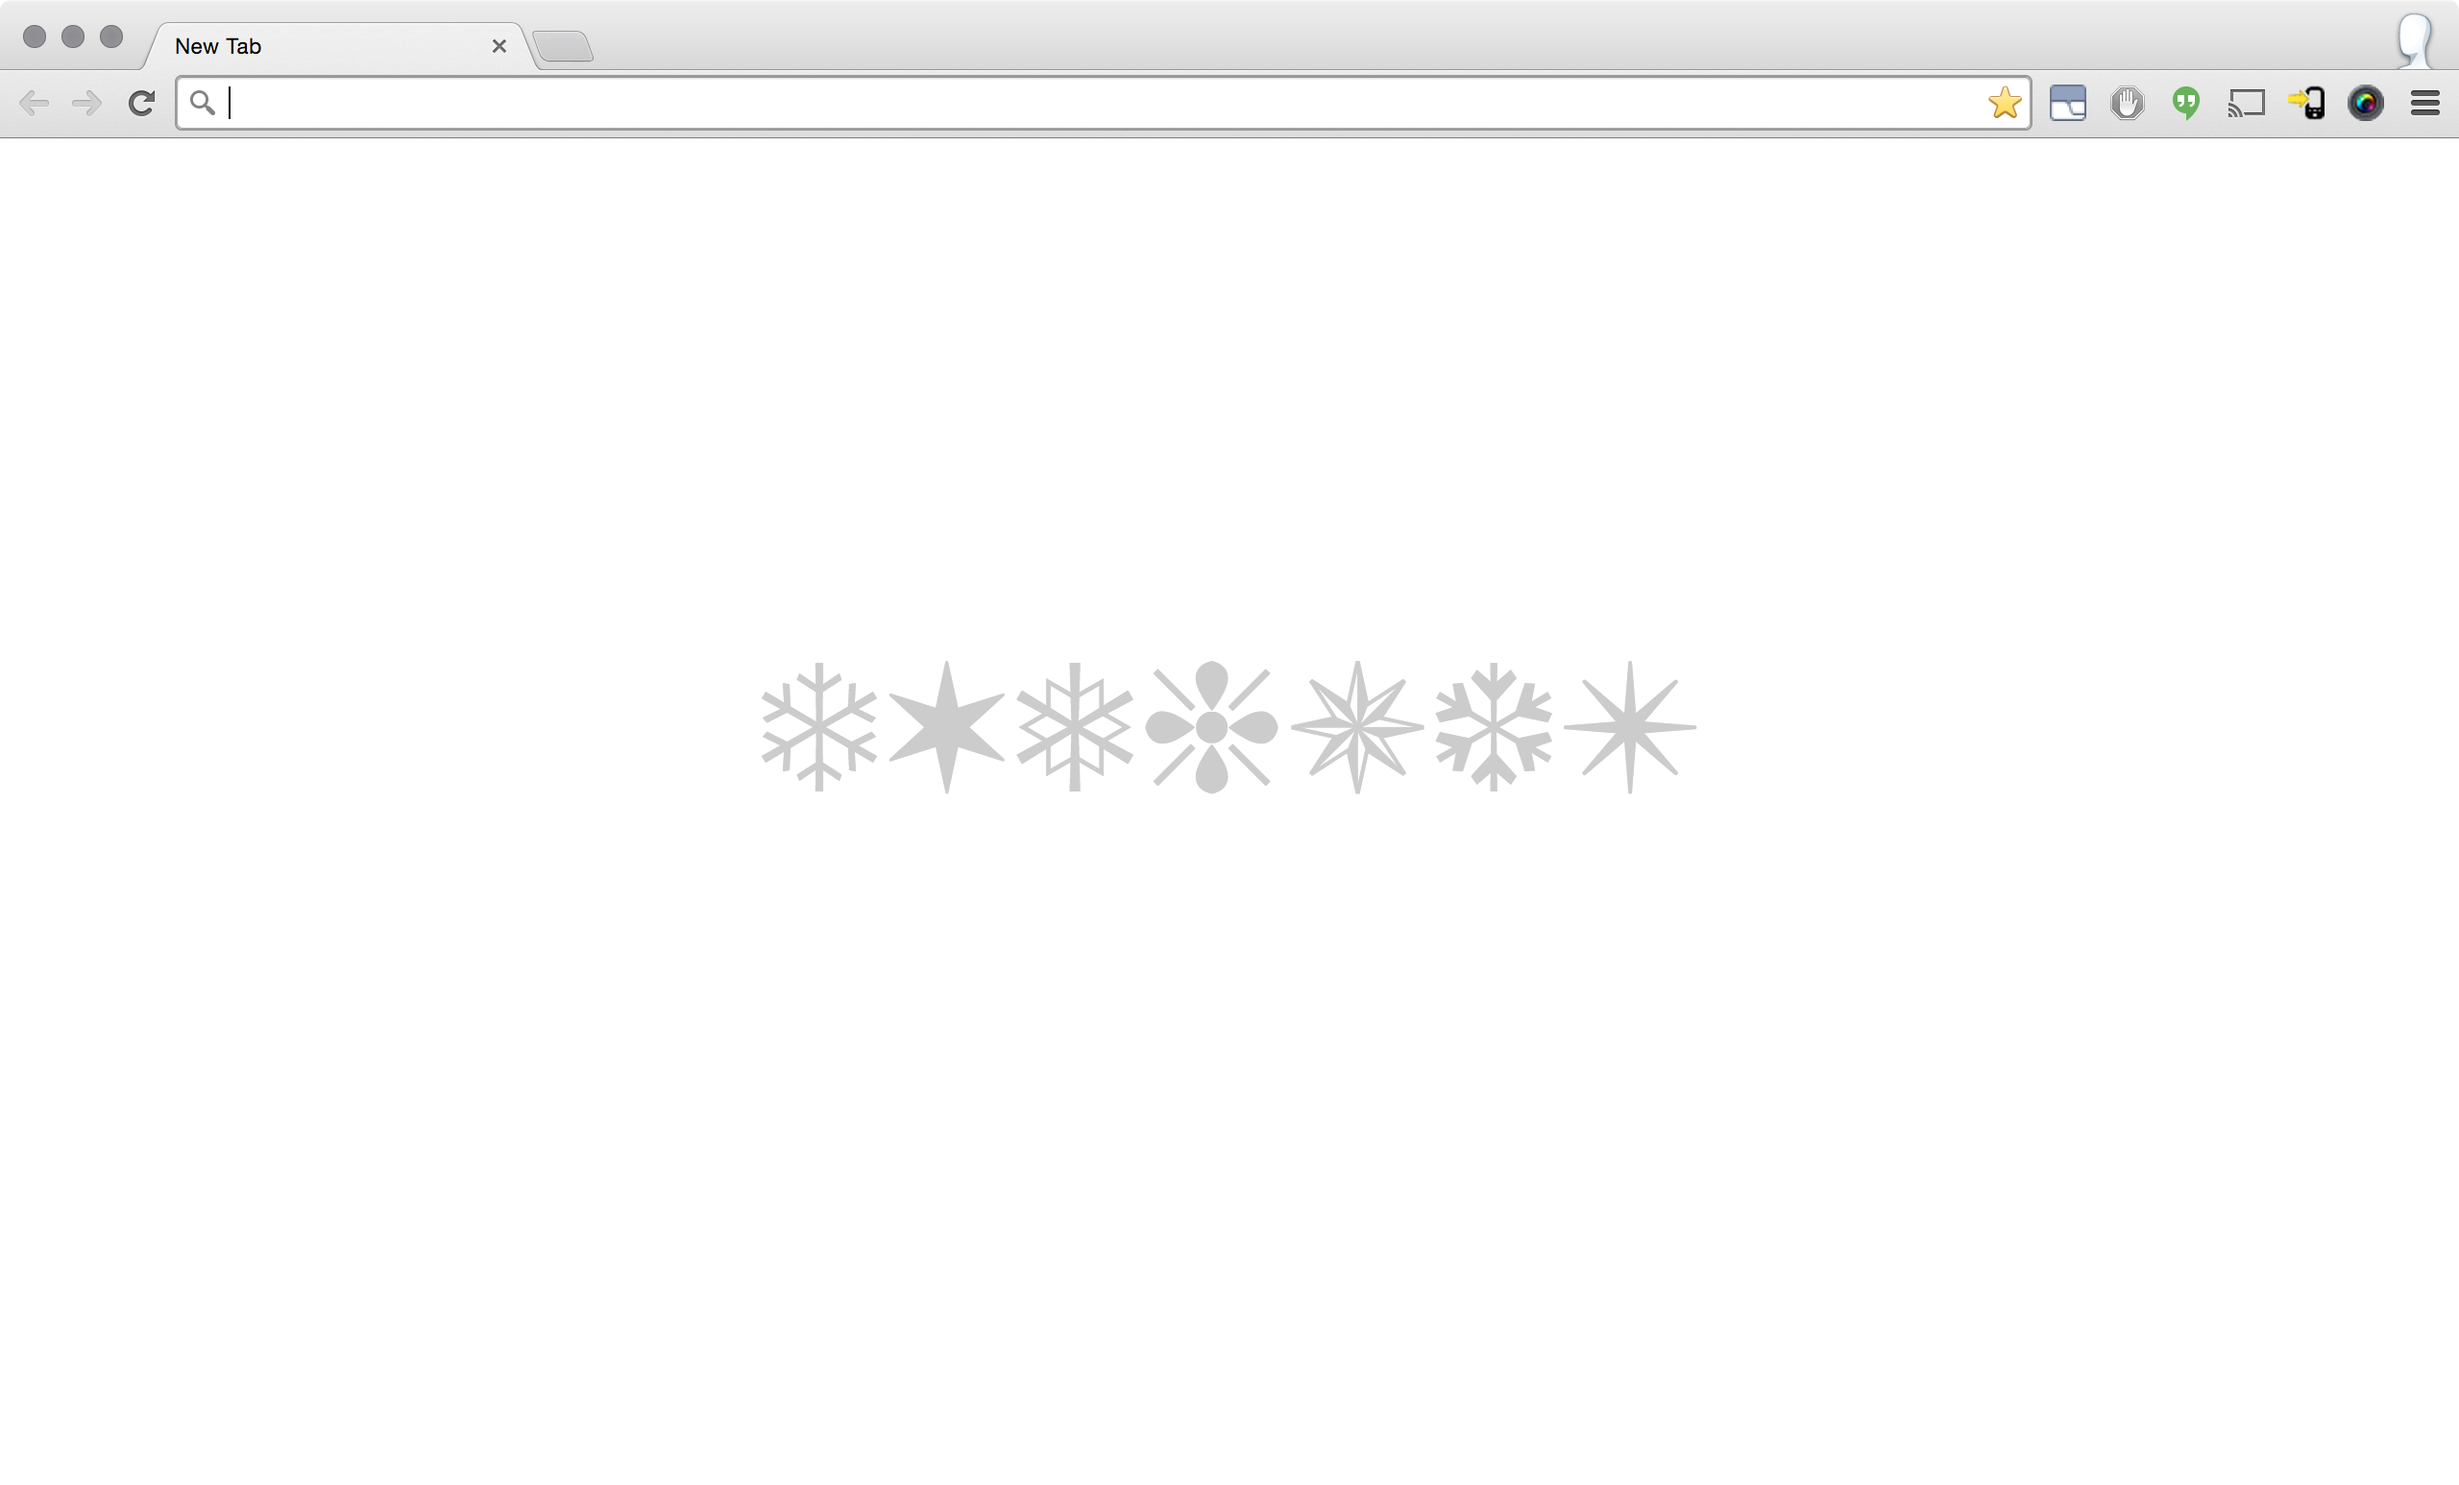
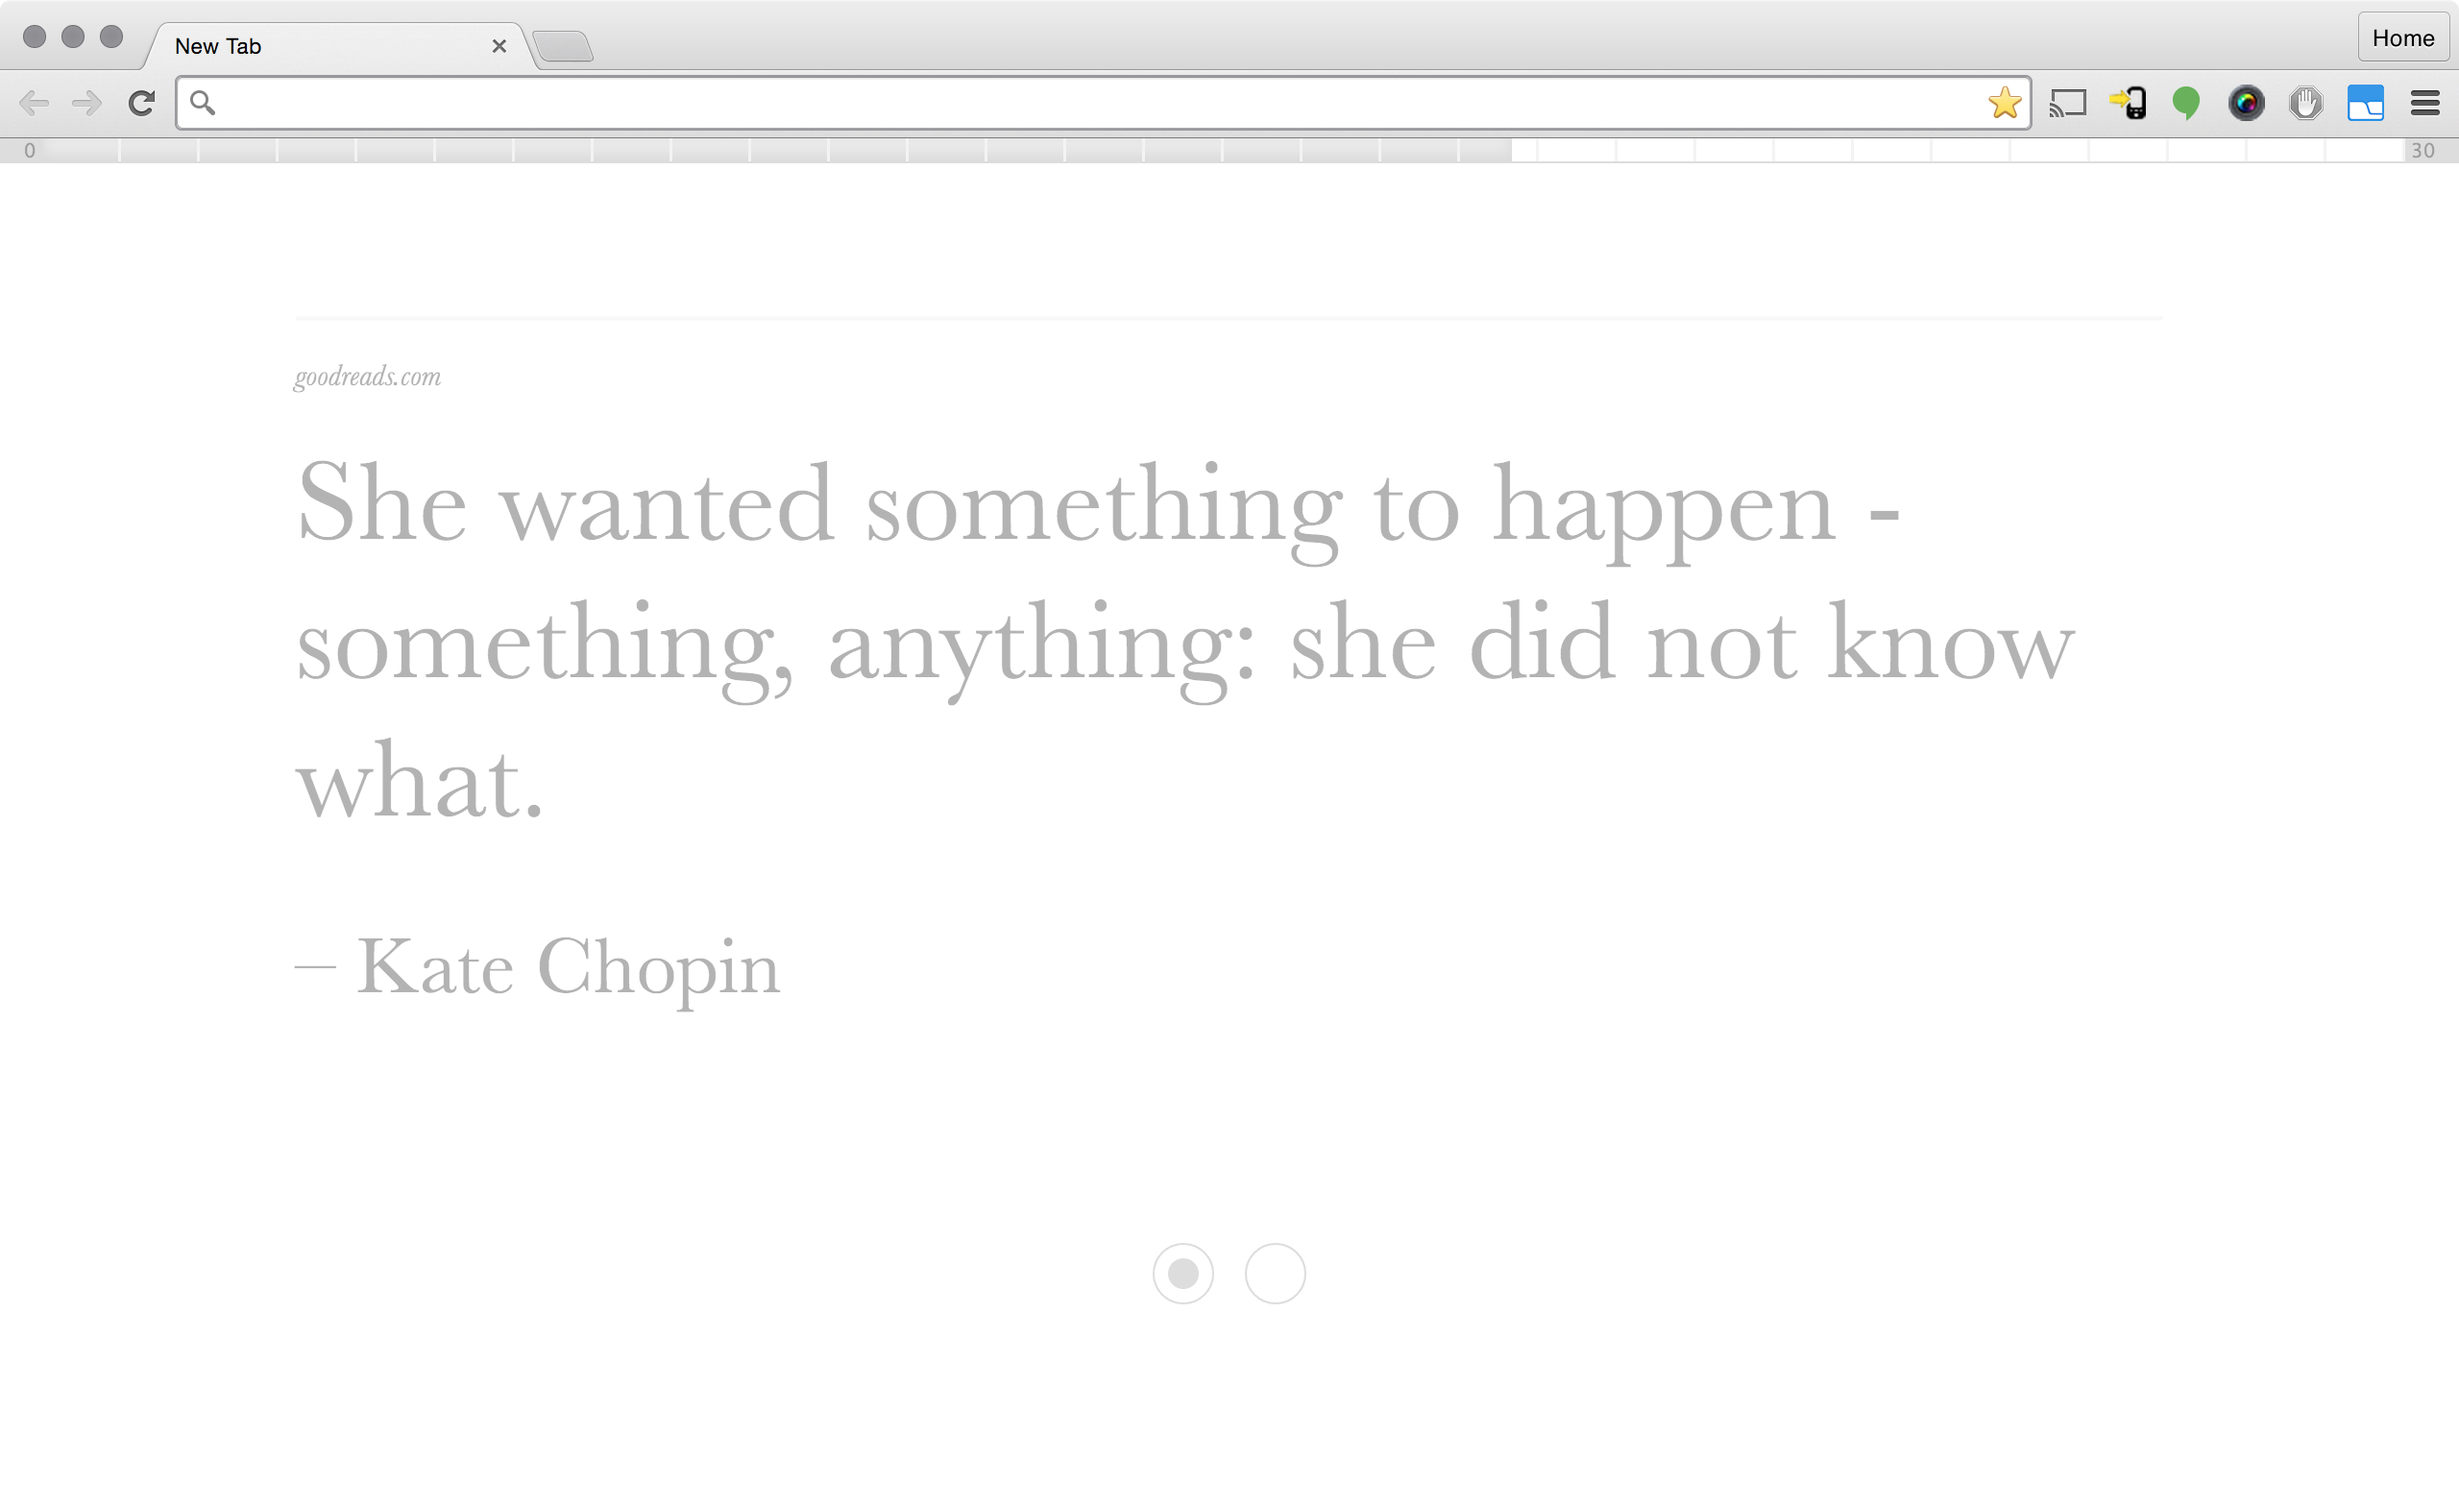
Quotes and 30day progress bar, no more emoticons

diff --git a/blank.html b/blank.html
@@ -15,39 +15,35 @@
 			font-size: 48px;
 			font-kerning: normal;
 			line-height: 1.2;
-			color: #ccc;
+			color: rgba(0, 0, 0, 0.3);
 		}
 
 		p {
 			margin: 20px 0;
 		}
 
-		#quote-0 {
-			position: absolute;
-			top: 50%;
-			left: 0;
-			transform: translateY(-50%);
+		#quotes {
+			height: 100%;
+			text-align: center;
 		}
 
-		#quote-1 {
-			position: absolute;
-			top: 50%;
-			left: 100%;
-			transform: translateY(-52%);
-		}
-
-		#quote-2 {
-			position: absolute;
-			top: 50%;
-			left: 200%;
-			transform: translateY(-50%);
+		#quotes:before {
+			content: "";
+			display: block;
+			height: 80%;
 		}
 
 		.quote {
+			display: none;
+			position: absolute;
+			top: 50%;
+			left: 0;
+			transform: translateY(-70%);
 			box-sizing: border-box;
 			width: 100%;
 			padding: 0 12%;
 			font-family: Baskerville, serif;
+			text-align: left;
 		}
 
 		.quote a {
@@ -70,18 +66,81 @@
 			white-space: nowrap;
 		}
 
-		progress {
+
+		label {
+			cursor: pointer;
+			display: inline-block;
+			width: 30px;
+			height: 30px;
+			border-radius: 50%;
+			border: 1px solid #ddd;
+			box-shadow: inset 0 0 0 7px white;
+		}
+
+		:checked + label {
+			background: #ddd;
+		}
+
+		[type=radio] {
+			display: none;
+		}
+
+		#radio-quote-0:checked ~ #quote-0 {
+			display: block;
+		}
+
+		#radio-quote-1:checked ~ #quote-1 {
+			display: block;
+		}
+
+		#radio-quote-2:checked ~ #quote-2 {
+			display: block;
+		}
+
+		#thirtyday {
+			white-space: nowrap;
 			position: fixed;
 			top: 0;
-			right: 0;
 			left: 0;
-			-webkit-appearance: none;
 			width: 100%;
-			height: 5px;
+			font-size: 10px;
+			height: 12px;
+			line-height: 12px;
+			text-align: center;
+			background: #ddd;
+			border-bottom: 1px solid #ddd;
+		}
+
+		progress {
+			-webkit-appearance: none;
+			width: 1230px;
+			height: 12px;
+			vertical-align: top;
+		}
+
+		progress:after {
+			content: "";
+			display: block;
+			height: 12px;
+			margin-top: -12px;
+			background-image: linear-gradient(
+				to right,
+				transparent,
+				transparent 97%,
+				hsl(0, 0%, 95%) 97%,
+				hsl(0, 0%, 95%));
+			background-position: 0% 0%;
+			background-size: 41px 12px;
+			background-repeat: repeat-x;
 		}
 
 		progress::-webkit-progress-bar {
 			background-color: white;
+		}
+
+		progress::-webkit-progress-value {
+			background-color: rgba(0, 0, 0, 0.08);
+			box-shadow: inset 0 -3px 10px rgba(0, 0, 0, 0.08);
 		}
 
 		progress.blue::-webkit-progress-value {
@@ -94,13 +153,22 @@
 	</style>
 </head>
 <body>
-	<progress class="blue" max="30" value="0"></progress>
-	<div class="quote" id="quote-0"></div>
-	<div class="quote" id="quote-1"></div>
-	<div class="quote" id="quote-2"></div>
+	<div id="thirtyday">
+		0 <progress max="30" value="0"></progress> 30
+	</div>
+	<div id="quotes">
+		<input type="radio" name="switch" id="radio-quote-0" checked>
+		<label for="radio-quote-0"></label>
+		<input type="radio" name="switch" id="radio-quote-1">
+		<label for="radio-quote-1"></label>
+		<!-- <input type="radio" name="switch" id="radio-quote-2">
+		<label for="radio-quote-2"></label> -->
+		<div class="quote" id="quote-0"></div>
+		<div class="quote" id="quote-1"></div>
+		<div class="quote" id="quote-2"></div>
+	</div>
 	<script src="js/lib/jquery.min.js"></script>
 	<script src="js/lib/xdate.js"></script>
-	<!-- <script src="emoticons.js"></script> -->
 	<script src="js/quote.js"></script>
 	<script src="js/progress.js"></script>
 </body>

diff --git a/js/quote.js b/js/quote.js
@@ -75,7 +75,7 @@ jQuery.get(qodURL, function (data, textStatus) {
 		'https://www.google.com/search?q=' + dummyNode.querySelector('a').innerText
 	);
 	$quote.innerHTML = [
-		'<cite>Goodreads.com</cite>',
+		'<cite>goodreads.com</cite>',
 		'<p><a href="https://www.google.com/search?q=' + dummyNode.querySelector('div:first-child').innerText + '">',
 			dummyNode.querySelector('div:first-child').innerHTML,
 		'</a></p>',
@@ -90,21 +90,21 @@ jQuery.get(qodURL, function (data, textStatus) {
 // theysaidso has really shitty quotes, but I'm keeping this code around for some reason.
 // for inspriting quotes add &category=inspire
 
-var qodURL2 = 'http://api.theysaidso.com/qod?v=' + (new Date().toISOString().substr(0, 10));
-jQuery.get(qodURL2, function (data, textStatus) {
-	var $quote = document.querySelector('#quote-2');
-	$quote.innerHTML = [
-		'<cite>Theysaidso.com</cite>',
-		'<p>',
-			'<a href="http://theysaidso.com/quote/' + data.contents.id + '">',
-				smartQuotes(data.contents.quote),
-			'</a>',
-		'</p>',
-		'<small class="no-wrap">',
-			'<a href="https://www.google.com/search?q=' + data.contents.author + '">',
-				'— ' + data.contents.author,
-			'</a>',
-		'</small>'
-	].join('');
-	setFontSizes($quote);
-});
+// var qodURL2 = 'http://api.theysaidso.com/qod?v=' + (new Date().toISOString().substr(0, 10));
+// jQuery.get(qodURL2, function (data, textStatus) {
+// 	var $quote = document.querySelector('#quote-2');
+// 	$quote.innerHTML = [
+// 		'<cite>theysaidso.com</cite>',
+// 		'<p>',
+// 			'<a href="http://theysaidso.com/quote/' + data.contents.id + '">',
+// 				smartQuotes(data.contents.quote),
+// 			'</a>',
+// 		'</p>',
+// 		'<small class="no-wrap">',
+// 			'<a href="https://www.google.com/search?q=' + data.contents.author + '">',
+// 				'— ' + data.contents.author,
+// 			'</a>',
+// 		'</small>'
+// 	].join('');
+// 	setFontSizes($quote);
+// });

diff --git a/js/progress.js b/js/progress.js
@@ -1,7 +1,9 @@
 (function () {
 	var start = new XDate(2015, 0, 21);
 	var daysSinceStart = start.diffDays();
-	$('progress')
-		.animate({'value': daysSinceStart}, 400)
-		.attr('title', Math.floor(daysSinceStart) + ' days since start.');
+	$(document.body).ready(function () {
+		$('progress')
+			.animate({'value': daysSinceStart}, 100)
+			.attr('title', Math.floor(daysSinceStart) + ' days since start.');
+	});
 })();
